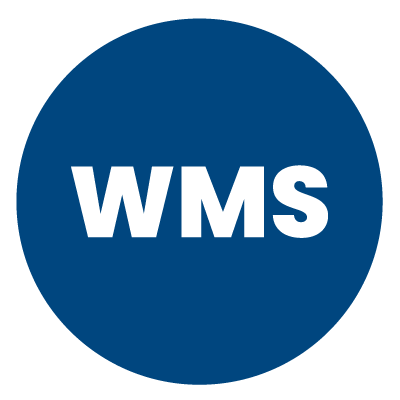
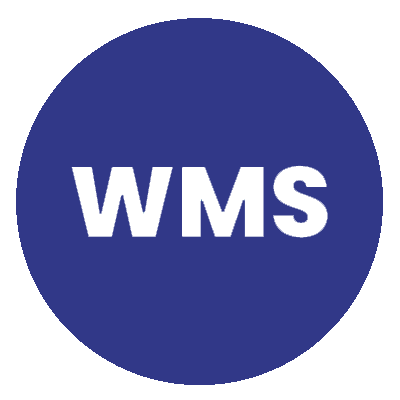
wms second init

diff --git a/wms-web/src/components/LoginHome.vue b/wms-web/src/components/LoginHome.vue
@@ -1,0 +1,114 @@
+<script>
+export default {
+  name: "LoginHome",
+  data(){
+    return{
+      confirm_disabled:false,
+      loginForm:{
+        no:'',
+        password:''
+      },
+      rules:{
+        no:[
+          { required: true,message:'请输入账号', trigger:'blur'}
+        ],
+        password:[
+          { required: true,message:'请输入密码', trigger:'blur'}
+        ],
+      }
+    }
+  },
+  methods:{
+    confirm(){
+      this.confirm_disabled=true;
+      this.$refs.loginForm.validate((valid)=>{
+        if (valid){
+          //验证后台数据
+          this.$axios.post(this.$httpUrl+'/user/login',this.loginForm).then(res=>res.data).then(res=>{
+            if(res.code==200){
+              //存储
+              sessionStorage.setItem("CurUser",JSON.stringify(res.data))
+              //跳转到IndexHome.vue
+              this.$router.replace('/IndexHome');
+              this.$message({
+                type:"success",
+                message:"登录成功"
+              })
+            }else {
+              this.confirm_disabled = false;
+              this.$message.error({
+
+                message:"登录失败，用户名或密码错误！"
+              })
+              //alert("校验失败，用户名或密码错误！");
+              return false;
+            }
+          });
+        }else {
+          this.confirm_disabled = false;
+          console.log('校验失败');
+          return false;
+        }
+      })
+    }
+  }
+}
+</script>
+
+<template>
+  <div class="loginBody">
+  <div class="loginDiv">
+ <div class="login-content">
+   <h1 class="login-title">WMS仓库管理系统</h1>
+   <h3 class="login-title">用户登录</h3>
+   <el-form :model="loginForm" label-width="100px"
+            :rules="rules" ref="loginForm">
+     <el-form-item  label="账号" prop="no">
+       <el-input style="width: 200px" type="text" v-model="loginForm.no"
+                 autocomplete="off" size="small"></el-input>
+     </el-form-item>
+     <el-form-item label="密码" prop="password">
+       <el-input style="width: 200px" type="text" v-model="loginForm.password"
+                 autocomplete="off" show-password size="small" @keyup.enter.native="confirm"></el-input>
+     </el-form-item>
+     <el-form-item>
+       <el-button  type="primary" style="display: block;margin-left: 70px " @click="confirm" :disabled="confirm_disabled">登录</el-button>
+     </el-form-item>
+   </el-form>
+ </div>
+  </div>
+  </div>
+</template>
+
+<style scoped>
+  .loginBody{
+    position: absolute;
+    width: 100%;
+    height: 100%;
+    background-image: url("bg.jpg") ;
+    background-size:cover;
+  }
+  .loginDiv{
+    position: absolute;
+    top: 50%;
+    left: 50%;
+    margin-top: -200px;
+    margin-left: -250px;
+    width: 450px;
+    height: 330px;
+    background: #fff;
+    border-radius: 5%;
+  }
+  .login-title{
+    margin: 20px 0;
+    text-align: center;
+  }
+
+  .login-content{
+    width: 400px;
+    height: 250px;
+    position: absolute;
+    top: 25px;
+    left: 25px;
+  }
+</style>

diff --git a/wms-web/src/components/HeaderHome.vue b/wms-web/src/components/HeaderHome.vue
@@ -1,6 +1,11 @@
 <script>
 export default {
   name: "HeaderHome",
+  data(){
+    return {
+      user:JSON.parse(sessionStorage.getItem('CurUser'))
+    }
+  },
   props:{
     icon:String
   },
@@ -10,6 +15,30 @@ export default {
     },
     logout(){
       console.log('logout')
+
+
+      this.$confirm('确定退出登录吗？', '警告', {
+        confirmButtonText: '确定',  //确认按钮的文字显示
+        type: 'warning',
+        //center: true, //文字居中显示
+
+      })
+          .then(() => {
+           this.$message({
+             type:"success",
+             message:"已退出登录"
+           })
+            this.$router.push('/')
+            sessionStorage.clear()
+          })
+          .catch(() => {
+            this.$message({
+              type:"info",
+              message:"已取消退出登录"
+            })
+          });
+
+
     },
     collapse(){
       this.$emit('doCollapse')
@@ -28,7 +57,7 @@ export default {
     </div>
 
    <el-dropdown>
-     <span style="color: white">王晨飞</span>
+     <span style="color: white">{{user.name}}</span>
      <i class="el-icon-caret-bottom" style="margin-left: 5px;color: white"></i>
      <el-dropdown-menu slot="dropdown">
       <el-dropdown-item @click.native="toUser">个人中心</el-dropdown-item>

diff --git a/wms-web/src/components/AsideHome.vue b/wms-web/src/components/AsideHome.vue
@@ -15,9 +15,9 @@ export default {
 <template>
 
   <el-menu
-      background-color="#00467f"
+      background-color="#313888"
       text-color="white"
-      active-text-color="#00467f"
+      active-text-color="#313888"
       default-active="/Home"
       :collapse="isCollapse"
       :collapse-transition="false"
@@ -71,6 +71,9 @@ export default {
 <style scoped>
 .el-menu-item.is-active{
   background-color: white !important;
+}
+.el-menu-item.is-active i{
+ color: #3f3c8b !important;
 }
 .el-menu-item i{
   color: white;

diff --git a/wms-web/src/main.js b/wms-web/src/main.js
@@ -4,11 +4,15 @@ import ElementUI from 'element-ui';
 import 'element-ui/lib/theme-chalk/index.css';
 import axios from "axios";
 import './assets/global.css'
+import VueRouter from "vue-router";
+import router from "@/router";
 Vue.use(ElementUI,{size:'small'});
+Vue.use(VueRouter);
 Vue.prototype.$axios=axios;
 Vue.prototype.$httpUrl='http://localhost:8090'
 Vue.config.productionTip = false
 
 new Vue({
+  router,
   render: h => h(App),
 }).$mount('#app')

diff --git a/wms-web/src/router/index.js b/wms-web/src/router/index.js
@@ -1,0 +1,19 @@
+//路由文件
+import VueRouter from "vue-router";
+const routes = [
+    {
+        path:'/',
+        name:'login',
+        component:()=>import('../components/LoginHome.vue')
+    },
+    {
+        path:'/IndexHome',
+        name:'login',
+        component:()=>import('../components/IndexHome.vue')
+    }
+]
+    const router =new VueRouter({
+        mode:'history',
+        routes
+    })
+export  default router;

diff --git a/wms-web/src/App.vue b/wms-web/src/App.vue
@@ -1,19 +1,20 @@
 <template>
   <div id="app">
-    <IndexHome></IndexHome>
+    <router-view/>
+
   </div>
 </template>
 
 <script>
 
 
-import IndexHome from "@/components/IndexHome.vue";
+//import IndexHome from "@/components/IndexHome.vue";
 
 
 export default {
   name: 'App',
   components: {
-    IndexHome,
+
 
   }
 }

diff --git a/wms-web/src/components/IndexHome.vue b/wms-web/src/components/IndexHome.vue
@@ -52,7 +52,7 @@ export default {
 
 <style scoped>
 .el-header {
-  background-color: #00467f;
+  background-color: #313888;
   color: #333;
   line-height: 60px;
 }

diff --git a/wms/src/main/java/com/wms/controller/UserController.java b/wms/src/main/java/com/wms/controller/UserController.java
@@ -52,6 +52,15 @@ public class UserController {
     public Result update(@RequestBody User user){
         return userService.updateById(user)?Result.suc():Result.fail();
     }
+
+    //登录
+    @PostMapping("/login")
+    public Result login(@RequestBody User user){
+        List list = userService.lambdaQuery()
+                .eq(User::getNo,user.getNo())
+                .eq(User::getPassword,user.getPassword()).list();
+        return list.size()>0?Result.suc(list.get(0)):Result.fail();
+    }
     //删除
     @GetMapping("/del")
     public Result del(@RequestParam String id){
